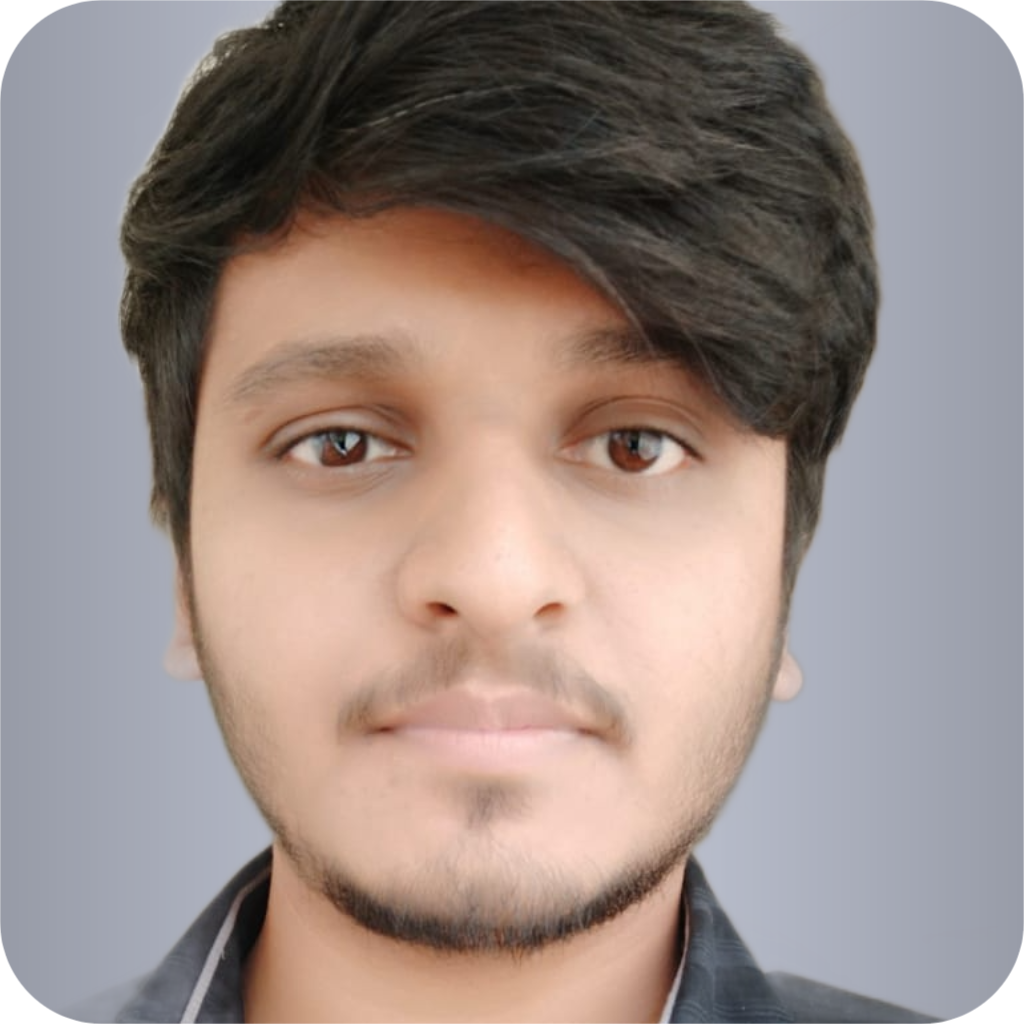
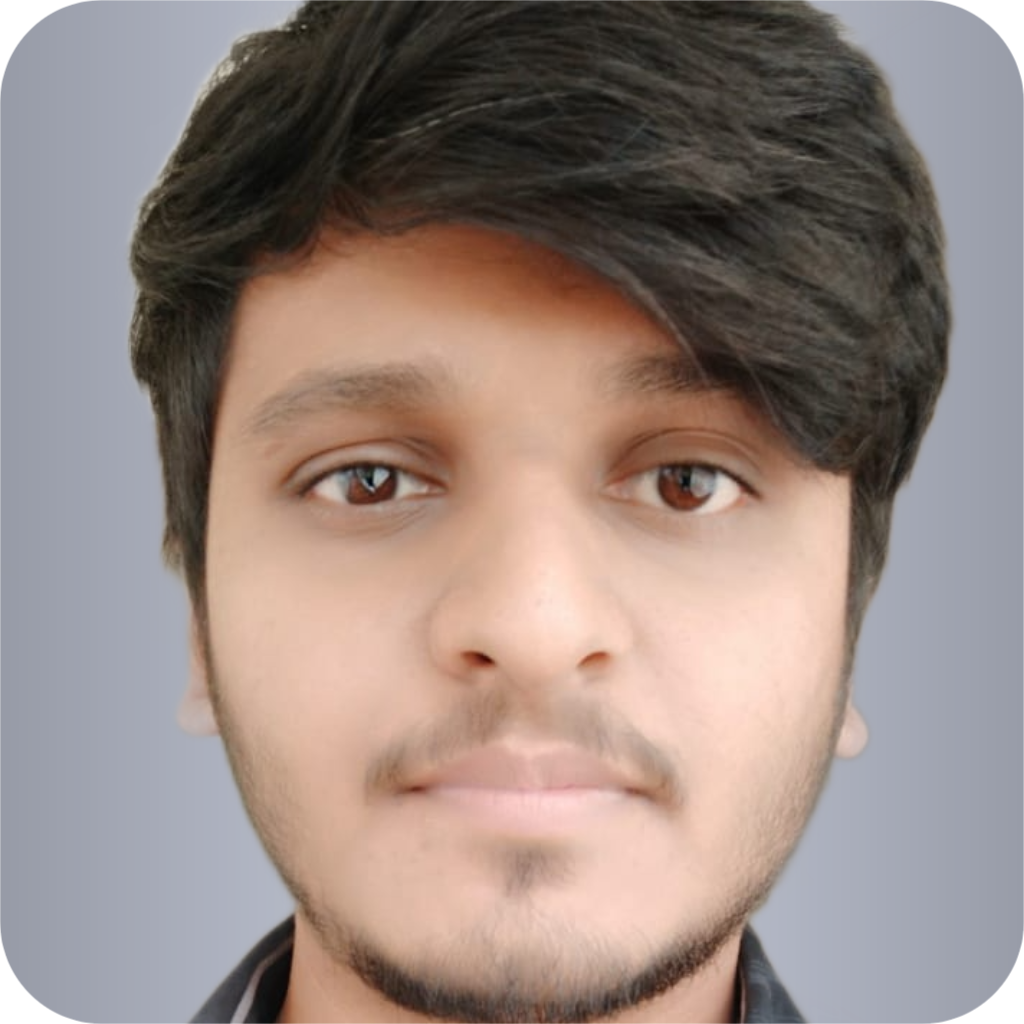
finally done with image

diff --git a/src/components/Hero/Hero.jsx b/src/components/Hero/Hero.jsx
@@ -19,9 +19,9 @@ const Hero = () => {
           <span className="block">
             I&apos;m <span className="italic text-transparent bg-gradient-to-r from-neutral-300 via-neutral-500 to-stone-400 bg-clip-text">Chetan</span>
             <img
-              src="/assets/hero-me-4.png"
+              src="/assets/hero-me-6.png"
               alt="Me"
-              className="inline-block object-cover object-top w-32 h-20 align-middle border-4 border-black shadow-lg rounded-xl " 
+              className="inline-block object-contain w-32 h-20 align-middle bg-[#c3c8d7] border-4 border-black shadow-lg rounded-xl " 
             />,
           </span>
           <span className="block">
